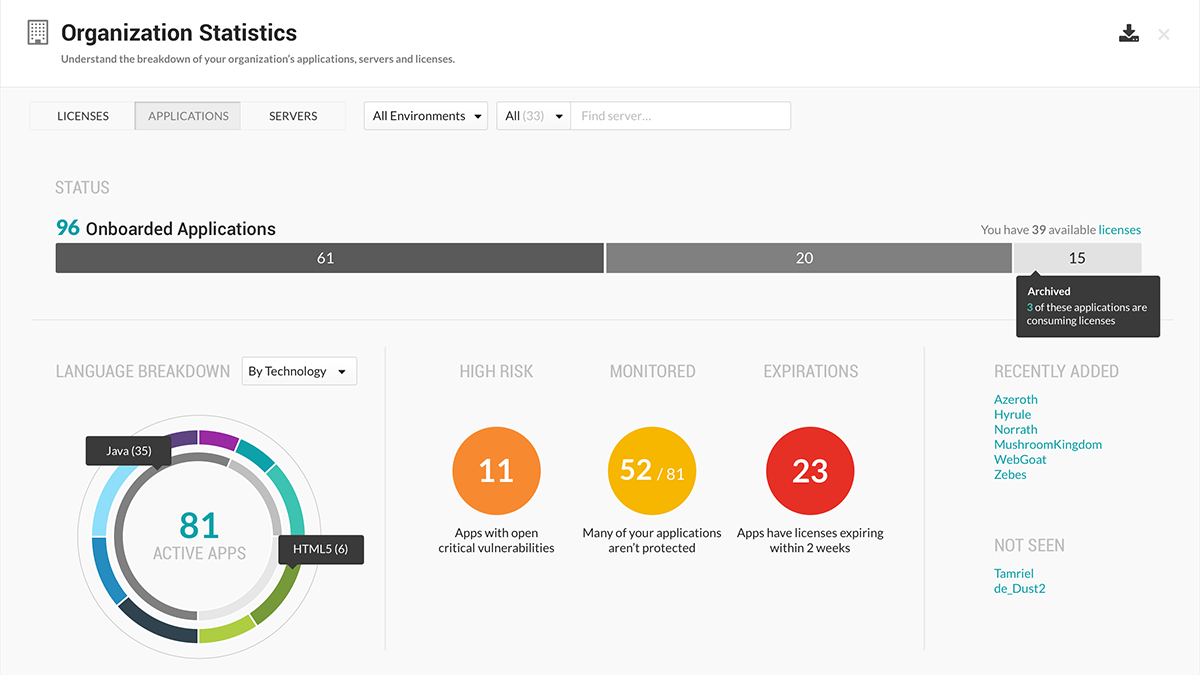
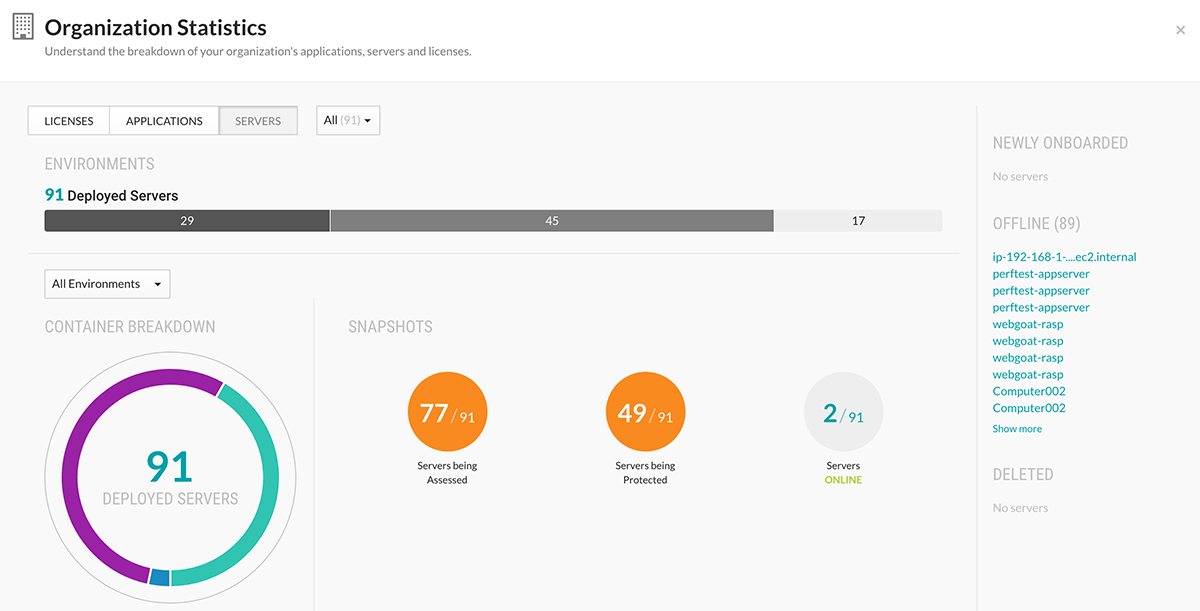
fixed typos and updated screenshots

diff --git a/content/user/ui/report/Org-stats.md b/content/user/ui/report/Org-stats.md
@@ -6,11 +6,11 @@ tags: "TeamServer licenses applications servers organizations report"
 
 For a summary of administrative statistics on your Contrast installation, look no further than your Organization Statistics. 
 
-Go go to the Reports page via the User Menu to find information about licensing and breakdowns across various data points for onboarded applications; deployed servers and how they’re being utilized; and licensing to understand utilization and expirations. A collection of filters and charts let you decide which data you want to see and how you want to see it. 
+Go to the Reports page via the User Menu to find information about licensing and breakdowns across various data points for onboarded applications; deployed servers and how they’re being utilized; and licensing to understand utilization and expirations. A collection of filters and charts let you decide which data you want to see and how you want to see it. 
 
 <a href="assets/images/org-stats-reports-page.png" rel="lightbox" title="Organization statistics on Reports page"><img class="thumbnail" src="assets/images/org-stats-reports-page.png"/></a>
 
-In the Licenses chart, view the number of overall licenses for Assess and Protect, as well as the the number of unlicensed applications and servers that exist in your organization. Click the application count to go to the Trial/Unlicensed quick view in the Applications page. 
+In the Licenses chart, view the number of overall licenses for Assess and Protect, as well as the number of unlicensed applications and servers that exist in your organization. Click the application count to go to the Unlicensed quick view in the Applications page. 
 
 In the next chart, view active applications. The inner ring designates the breakdown by language; choose the breakdown of the outer ring by selecting **Technology** or **Grade** in the dropdown menu. 
 
@@ -20,17 +20,15 @@ For more details on each category, select the **View** link under each heading.
 
 ## Licenses
 
-The Licenses tab features a Consumption trend chart of data for the past 12 months. Hover over a data point on the Assessment or Protection trend lines to see how may licenses were available that month. The thermometer chart below shows the total number of licenses purchased compared to the number being used. The timeline of shows how many licenses are about to expire on given dates. For a different view of the data, take a look at the circular charts with breakdowns by fraction and percentage for Assessment and Protection. 
+The Licenses tab features a Consumption trend chart of data for the past 12 months. Hover over a data point on the Assessment or Protection trend lines to see how many licenses were used that month. The thermometer chart below shows the total number of licenses purchased compared to the number being used. The timeline shows how many licenses are about to expire on given dates. For a different view of the data, take a look at the circular charts with breakdowns by fraction and percentage for Assessment and Protection. 
 
 If you have no Protection licenses, Contrast alerts you to the count of unlicensed servers.
 
 <a href="assets/images/org-stats-licenses.png" rel="lightbox" title="Organization statistics for licenses"><img class="thumbnail" src="assets/images/org-stats-licenses.png"/></a>
 
-<!-- Couldn't fit Assessment AND Protection view in browser window-->
-
 ## Applications
 
-In the Applications tab, the Status thermometer chart shows the total number of applications broken down by the number that are licensed, unlicensed and archived. Click on the total number of onboarded applications to go to the Applications page for more details on each one. Contrast also remdinds you of how many licenses are available in your organization. 
+In the Applications tab, the Status thermometer chart shows the total number of applications broken down by the number that are licensed, unlicensed and archived. Click on the total number of onboarded applications to go to the Applications page for more details on each one. Contrast also reminds you of how many licenses are available in your organization. 
 
 The circular Language Breakdown chart shows the number of applications by language in the inner band and by Technology or Grade in the outer band. Click the number of active applications to go to the grid in the Applications page. High Risk, Monitored and Expirations snapshots show the number of applications with critical open vulnerabilities, no protection and expiring licenses, respectively. Applications that you added within the last week and applications in an offline server are listed separately in the sidebar. 
 
@@ -40,7 +38,7 @@ The circular Language Breakdown chart shows the number of applications by langua
 
 Switch to the Servers tab to view a thermometer chart that shows the breakdown of all deployed servers by environment. Click on the total number of servers to go to Servers page for more information on each one. 
 
-The circular Containers Breakdown chart displays the number of deployed servers for each language in a given environment. Select a different environment in the dropdown menu to update the ring and total number of servers. Click on the total number of servers to go to the grid in the Servers page. Snapshots show servers being Assessed and Protected as well as all servers online compared to the total number of servers in the given environment. The right sidebar includes a list of newly onboarded, offline and deleted servers. 
+The circular Container Breakdown chart displays the number of deployed servers for each language in a given environment. Select a different environment in the dropdown menu to update the ring and total number of servers. Click on the total number of servers to go to the grid in the Servers page. Snapshots show servers being Assessed and Protected as well as all servers online compared to the total number of servers in the given environment. The right sidebar includes a list of newly onboarded, offline and deleted servers. 
 
 <a href="assets/images/org-stats-servers.png" rel="lightbox" title="Organization statistics for applications"><img class="thumbnail" src="assets/images/org-stats-servers.png"/></a>
 
